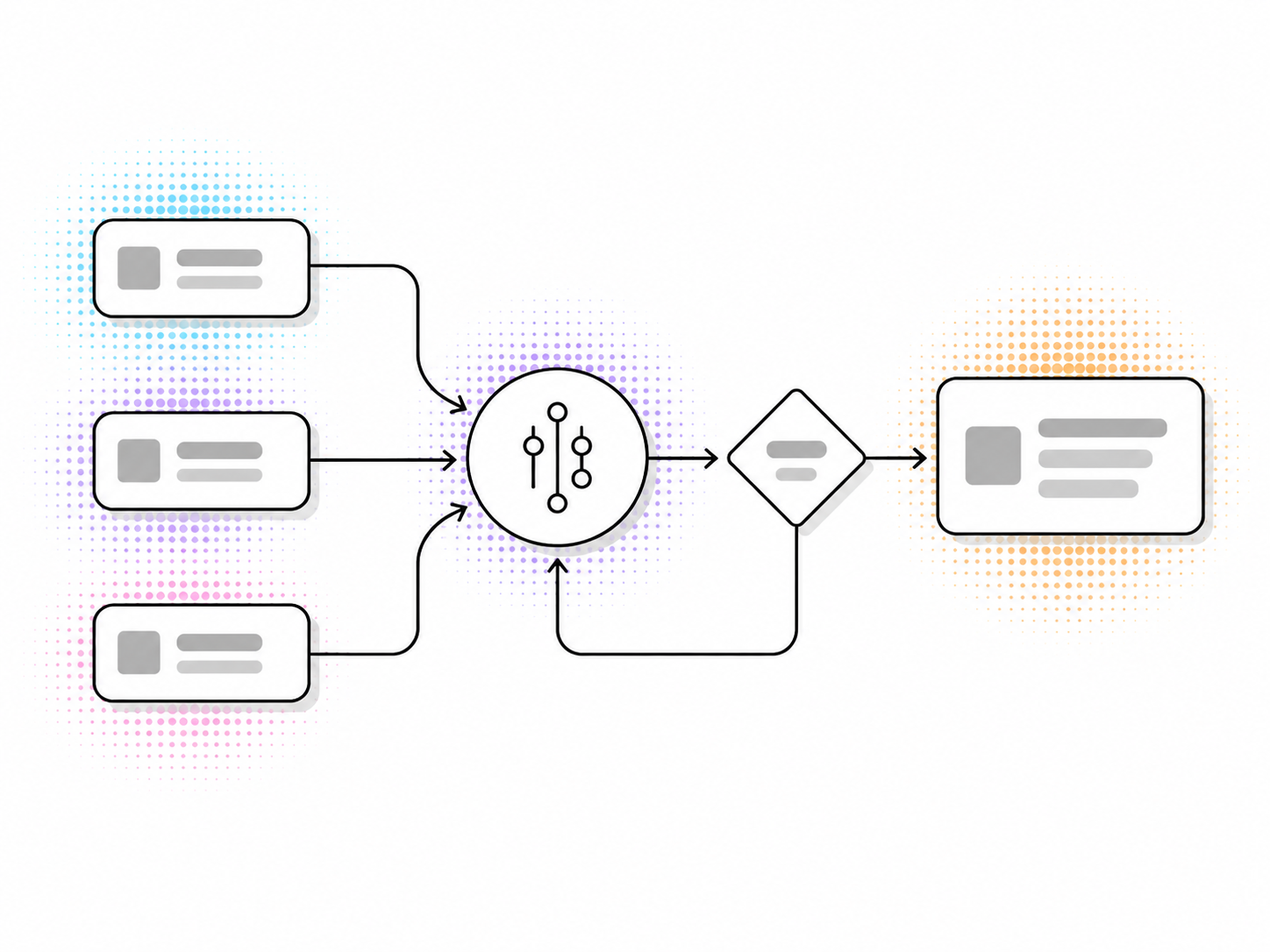
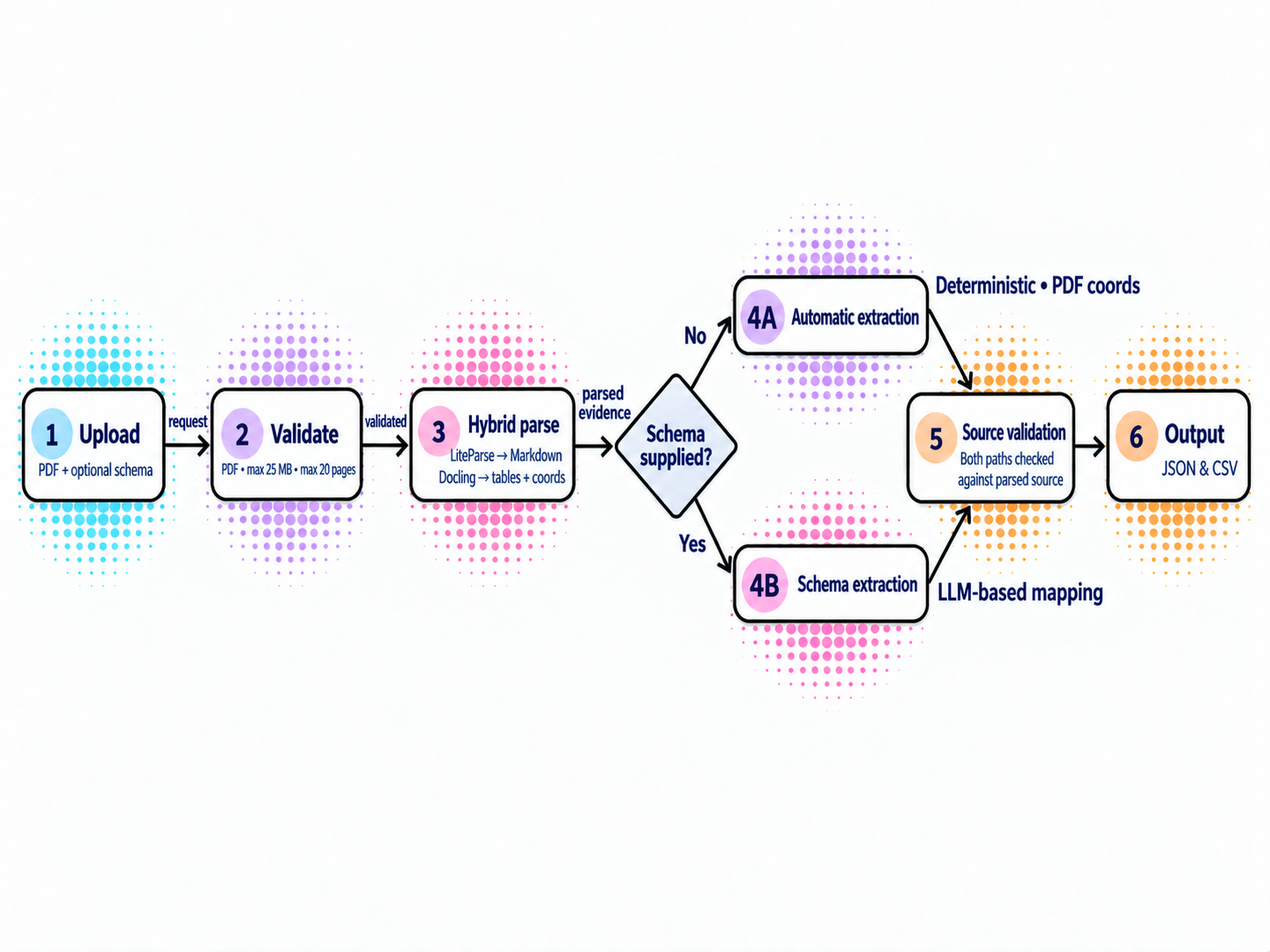
input fields added

Changed region(s): [[0.0, 0.1823, 0.9945, 0.7901]]

diff --git a/frontend/app/workspace.tsx b/frontend/app/workspace.tsx
@@ -10,12 +10,17 @@ import { Results } from "@/components/results";
 import { SchemaUpload } from "@/components/schema-upload";
 import { demoResponse } from "@/lib/demo";
 import { readSchemaFile } from "@/lib/schema";
-import type { ExtractionMode, ExtractionResponse, SchemaUploadState } from "@/lib/types";
+import type { ExtractionMode, ExtractionResponse, FieldDefinition, SchemaDefinition, SchemaUploadState } from "@/lib/types";
 
 const API_URL = process.env.NEXT_PUBLIC_API_URL || "http://localhost:8000";
 
 type ExamplePayload = { filename: string; pdf_url: string; schema: unknown };
 type SetupStep = "mode" | "schema";
+type SchemaMethod = "upload" | "builder";
+type BuilderState = { schemaName: string; description: string; outputMode: "document" | "records"; fields: FieldDefinition[]; recordFields: FieldDefinition[]; tableName: string; tableDescription: string };
+
+const emptyField = (): FieldDefinition => ({ id: crypto.randomUUID(), name: "", description: "" });
+const initialBuilder: BuilderState = { schemaName: "", description: "", outputMode: "document", fields: [emptyField()], recordFields: [emptyField()], tableName: "", tableDescription: "" };
 
 export function Workspace() {
   const [file, setFile] = useState<File | null>(null);
@@ -31,6 +36,10 @@ export function Workspace() {
   const [setupStep, setSetupStep] = useState<SetupStep>("mode");
   const [schemaUpload, setSchemaUpload] = useState<SchemaUploadState | null>(null);
   const [mobileView, setMobileView] = useState<"document" | "data">("document");
+  const [builder, setBuilder] = useState<BuilderState>(initialBuilder);
+  const [builderError, setBuilderError] = useState("");
+  const [builderValidating, setBuilderValidating] = useState(false);
+  const [schemaMethod, setSchemaMethod] = useState<SchemaMethod>("upload");
 
   useEffect(() => {
     if (new URLSearchParams(window.location.search).get("demo") === "1") {
@@ -91,6 +100,25 @@ export function Workspace() {
     }
   }
 
+  function updateBuilder(value: Partial<BuilderState>) { setBuilder((current) => ({ ...current, ...value })); setBuilderError(""); }
+
+  async function saveBuilderSchema() {
+    setBuilderError("");
+    setBuilderValidating(true);
+    try {
+      const toSchemaFields = (fields: FieldDefinition[]) => fields.map(({ name, description }) => ({ name: name.trim(), description: description.trim() }));
+      const schema: SchemaDefinition = { schema_version: 1, name: builder.schemaName.trim(), description: builder.description.trim(), fields: toSchemaFields(builder.fields) };
+      if (builder.outputMode === "records") schema.table = { name: builder.tableName.trim(), description: builder.tableDescription.trim(), fields: toSchemaFields(builder.recordFields) };
+      const validationResponse = await fetch(`${API_URL}/api/schema/validate`, { method: "POST", headers: { "Content-Type": "application/json" }, body: JSON.stringify(schema) });
+      const payload = await validationResponse.json().catch(() => ({}));
+      if (!validationResponse.ok) throw new Error(typeof payload.detail === "string" ? payload.detail : "The schema could not be validated.");
+      const builtSchema = { fileName: "Built in app", raw: JSON.stringify(schema), schema };
+      setSchemaUpload(builtSchema);
+      await extract("schema", builtSchema);
+    } catch (caught) { setBuilderError(caught instanceof Error ? caught.message : "The schema could not be validated."); }
+    finally { setBuilderValidating(false); }
+  }
+
   function selectMode(nextMode: ExtractionMode) {
     setMode(nextMode);
     setError("");
@@ -107,7 +135,7 @@ export function Workspace() {
     void extract();
   }
 
-  async function extract(modeOverride?: ExtractionMode) {
+  async function extract(modeOverride?: ExtractionMode, schemaOverride?: SchemaUploadState) {
     if (!file) {
       setError("Add a PDF before extracting.");
       return;
@@ -117,7 +145,8 @@ export function Workspace() {
       setError("Choose an extraction mode first.");
       return;
     }
-    if (selectedMode === "schema" && !schemaUpload) {
+    const activeSchema = schemaOverride || schemaUpload;
+    if (selectedMode === "schema" && !activeSchema) {
       setSetupStep("schema");
       return;
     }
@@ -127,7 +156,7 @@ export function Workspace() {
     try {
       const form = new FormData();
       form.append("pdf", file);
-      if (selectedMode === "schema" && schemaUpload) form.append("schema", schemaUpload.raw);
+      if (selectedMode === "schema" && activeSchema) form.append("schema", activeSchema.raw);
       const result = await fetch(`${API_URL}/api/extractions`, { method: "POST", body: form });
       const payload = await result.json();
       if (!result.ok) throw new Error(typeof payload.detail === "string" ? payload.detail : "Extraction failed.");
@@ -176,9 +205,10 @@ export function Workspace() {
         ? "Extract automatically"
         : mode === "schema" && schemaUpload
           ? "Extract with schema"
-          : mode === "schema"
-            ? "Choose JSON schema"
+            : mode === "schema"
+            ? "Choose schema"
             : "Choose extraction";
+  const builderOpen = !response && setupStep === "schema" && schemaMethod === "builder";
 
   return (
     <main className="app-shell" id="workspace">
@@ -194,7 +224,7 @@ export function Workspace() {
           <div className="workspace-header-actions">
             {file || demo ? <button className="quiet-button start-over-button" type="button" onClick={startOver}>Start over</button> : null}
             {response && !demo ? <button className="secondary-button" type="button" onClick={() => void extract()} disabled={loading}><ReloadIcon /> {loading ? "Extracting..." : "Run again"}</button> : null}
-            {response ? <ExportMenu response={response} /> : <button className="primary-button" type="button" disabled={loading || exampleLoading || demo} onClick={file ? continueSetup : openPdfPicker}>{loading ? "Extracting..." : actionLabel}</button>}
+            {response ? <ExportMenu response={response} /> : builderOpen ? null : <button className="primary-button" type="button" disabled={loading || exampleLoading || demo} onClick={file ? continueSetup : openPdfPicker}>{loading ? "Extracting..." : actionLabel}</button>}
           </div>
           </div>
         </header>
@@ -204,7 +234,7 @@ export function Workspace() {
             <DocumentPanel file={file} onFile={changePdf} onExample={loadExample} exampleLoading={exampleLoading} demo={demo} visible={mobileView === "document"} />
             {!file && !response ? <section className={`workspace-pane data-pane automatic-intro ${mobileView === "data" ? "mobile-visible" : ""}`} aria-labelledby="intro-heading"><header className="pane-header workspace-pane-header"><div><span className="pane-kicker">Set up extraction</span><h2 id="intro-heading">Upload a PDF to begin</h2></div></header><div className="intro-content"><div><strong>Automatic extraction</strong><p>Find fields, tables, and content that needs review.</p></div><div><strong>Schema extraction</strong><p>Return only the values and table rows you define.</p></div></div></section> : null}
             {file && !response && setupStep === "mode" ? <ExtractionModeChooser selected={mode} visible={mobileView === "data"} hasSchema={Boolean(schemaUpload)} onSelect={selectMode} onContinue={continueSetup} /> : null}
-            {file && !response && setupStep === "schema" ? <SchemaUpload schema={schemaUpload?.schema || null} fileName={schemaUpload?.fileName || ""} error={schemaError} validating={schemaValidating} visible={mobileView === "data"} onFile={handleSchemaFile} onBack={() => setSetupStep("mode")} /> : null}
+            {file && !response && setupStep === "schema" ? <SchemaUpload schema={schemaUpload?.schema || null} fileName={schemaUpload?.fileName || ""} error={schemaError} validating={schemaValidating} visible={mobileView === "data"} onFile={handleSchemaFile} onBack={() => setSetupStep("mode")} builder={builder} builderError={builderError} builderValidating={builderValidating} onBuilder={updateBuilder} onBuilderSave={() => void saveBuilderSchema()} method={schemaMethod} onMethod={setSchemaMethod} /> : null}
             {response ? <Results response={response} visible={mobileView === "data"} /> : null}
           </div>
         </div>

diff --git a/frontend/components/schema-builder.tsx b/frontend/components/schema-builder.tsx
@@ -7,13 +7,20 @@ type Props = {
   outputMode: "document" | "records";
   fields: FieldDefinition[];
   recordFields: FieldDefinition[];
+  tableName: string;
+  tableDescription: string;
   disabled: boolean;
   visible: boolean;
+  error: string;
+  validating: boolean;
   onSchemaName: (value: string) => void;
   onDescription: (value: string) => void;
   onOutputMode: (value: "document" | "records") => void;
   onFields: (value: FieldDefinition[]) => void;
   onRecordFields: (value: FieldDefinition[]) => void;
+  onTableName: (value: string) => void;
+  onTableDescription: (value: string) => void;
+  onSave: () => void;
 };
 
 function newField(): FieldDefinition {
@@ -24,7 +31,7 @@ function FieldEditor({ fields, disabled, onChange }: { fields: FieldDefinition[]
   const update = (id: string, value: Partial<FieldDefinition>) => onChange(fields.map((field) => field.id === id ? { ...field, ...value } : field));
   return (
     <div className="field-editor">
-      <div className="field-editor-labels"><span>Field name</span><span>Description</span><span /></div>
+      <div className="field-editor-labels"><span>What should we call it?</span><span>How will it appear?</span><span /></div>
       {fields.map((field) => (
         <div className="schema-field-row" key={field.id}>
           <input aria-label="Field name" value={field.name} disabled={disabled} placeholder="Field name" onChange={(event) => update(field.id, { name: event.target.value })} />
@@ -39,20 +46,20 @@ function FieldEditor({ fields, disabled, onChange }: { fields: FieldDefinition[]
 
 export function SchemaBuilder(props: Props) {
   return (
-    <section className={`workspace-pane data-pane ${props.visible ? "mobile-visible" : ""}`} aria-labelledby="schema-heading">
-      <header className="pane-header"><div><span className="pane-kicker">Schema</span><h2 id="schema-heading">Describe the values you need</h2><p>Give each field a name and a short description.</p></div></header>
+    <section className={`workspace-pane data-pane schema-builder-pane ${props.visible ? "mobile-visible" : ""}`} aria-labelledby="schema-heading">
       <div className="schema-scroll">
         <div className="schema-meta">
-          <label>Schema name<input value={props.schemaName} placeholder="e.g. invoice" disabled={props.disabled} onChange={(event) => props.onSchemaName(event.target.value)} /></label>
-          <label>Document description<textarea rows={3} value={props.description} placeholder="e.g. Extract the invoice number and issue date." disabled={props.disabled} onChange={(event) => props.onDescription(event.target.value)} /></label>
+          <label>Give this extraction a name<input value={props.schemaName} placeholder="e.g. Invoice details" disabled={props.disabled} onChange={(event) => props.onSchemaName(event.target.value)} /></label>
+          <label>What should we look for in this PDF?<textarea rows={3} value={props.description} placeholder="e.g. Find the invoice number, issue date, and totals." disabled={props.disabled} onChange={(event) => props.onDescription(event.target.value)} /></label>
         </div>
         <fieldset className="mode-switch" disabled={props.disabled}>
-          <legend>Output structure</legend>
-          <button type="button" className={props.outputMode === "document" ? "active" : ""} onClick={() => props.onOutputMode("document")}><strong>Document</strong><span>One output row</span></button>
-          <button type="button" className={props.outputMode === "records" ? "active" : ""} onClick={() => props.onOutputMode("records")}><strong>Records</strong><span>Repeat table rows or items</span></button>
+          <legend>What kind of information is in this PDF?</legend>
+          <button type="button" className={props.outputMode === "document" ? "active" : ""} onClick={() => props.onOutputMode("document")}><strong>Details from each PDF</strong><span>For information that appears once, like an invoice number or date.</span></button>
+          <button type="button" className={props.outputMode === "records" ? "active" : ""} onClick={() => props.onOutputMode("records")}><strong>Rows from a repeated list</strong><span>For line items, products, people, or other repeated entries.</span></button>
         </fieldset>
-        <section className="schema-section"><div className="section-heading"><h3>Document fields</h3><span>{props.fields.length}</span></div><FieldEditor fields={props.fields} disabled={props.disabled} onChange={props.onFields} /></section>
-        {props.outputMode === "records" ? <section className="schema-section"><div className="section-heading"><div><h3>Record fields</h3><p>One record for every matching repeated item.</p></div><span>{props.recordFields.length}</span></div><FieldEditor fields={props.recordFields} disabled={props.disabled} onChange={props.onRecordFields} /></section> : null}
+        <section className="schema-section"><div className="section-heading"><div><h3>Details to extract from the PDF</h3><p>Add each value you want in the result.</p></div><span>{props.fields.length}</span></div><FieldEditor fields={props.fields} disabled={props.disabled} onChange={props.onFields} /></section>
+        {props.outputMode === "records" ? <section className="schema-section"><div className="section-heading"><div><h3>Details in each repeated row</h3><p>These become one result row for every matching item.</p></div><span>{props.recordFields.length}</span></div><div className="schema-meta"><label>What should we call this list?<input value={props.tableName} placeholder="e.g. Products or line items" disabled={props.disabled} onChange={(event) => props.onTableName(event.target.value)} /></label><label>What does each row represent?<textarea rows={2} value={props.tableDescription} placeholder="e.g. Each product or service on the invoice." disabled={props.disabled} onChange={(event) => props.onTableDescription(event.target.value)} /></label></div><FieldEditor fields={props.recordFields} disabled={props.disabled} onChange={props.onRecordFields} /></section> : null}
+        <div className="schema-builder-actions"><button className="primary-button" type="button" disabled={props.disabled} onClick={props.onSave}>{props.validating ? "Checking and extracting..." : "Extract from this PDF"}</button>{props.error ? <p className="schema-inline-error" role="alert">{props.error}</p> : null}</div>
       </div>
     </section>
   );

diff --git a/frontend/components/schema-upload.tsx b/frontend/components/schema-upload.tsx
@@ -5,6 +5,8 @@ import { useRef, useState } from "react";
 import { downloadFile } from "@/lib/download";
 import { exampleSchema, schemaSummary } from "@/lib/schema";
 import type { SchemaDefinition } from "@/lib/types";
+import { SchemaBuilder } from "@/components/schema-builder";
+import type { FieldDefinition } from "@/lib/types";
 
 type Props = {
   schema: SchemaDefinition | null;
@@ -14,9 +16,16 @@ type Props = {
   visible: boolean;
   onFile: (file: File) => void;
   onBack: () => void;
+  builder: { schemaName: string; description: string; outputMode: "document" | "records"; fields: FieldDefinition[]; recordFields: FieldDefinition[]; tableName: string; tableDescription: string };
+  builderError: string;
+  builderValidating: boolean;
+  onBuilder: (value: Partial<Props["builder"]>) => void;
+  onBuilderSave: () => void;
+  method: "upload" | "builder";
+  onMethod: (value: "upload" | "builder") => void;
 };
 
-export function SchemaUpload({ schema, fileName, error, validating, visible, onFile, onBack }: Props) {
+export function SchemaUpload({ schema, fileName, error, validating, visible, onFile, onBack, builder, builderError, builderValidating, onBuilder, onBuilderSave, method, onMethod }: Props) {
   const inputRef = useRef<HTMLInputElement>(null);
   const [dragging, setDragging] = useState(false);
 
@@ -34,9 +43,10 @@ export function SchemaUpload({ schema, fileName, error, validating, visible, onF
     <section className={`workspace-pane data-pane schema-upload-pane ${visible ? "mobile-visible" : ""}`} aria-labelledby="schema-upload-heading">
       <header className="pane-header schema-upload-header workspace-pane-header">
         <button className="quiet-button back-button" type="button" onClick={onBack}><ArrowLeftIcon aria-hidden="true" /> Back</button>
-        <div><span className="pane-kicker">Schema mode</span><h2 id="schema-upload-heading">Upload your JSON schema</h2></div>
+        <div><span className="pane-kicker">Schema mode</span><h2 id="schema-upload-heading">Tell us what to find</h2><p>Use an existing schema or describe the values in plain language.</p></div>
       </header>
-      <div className="schema-upload-content">
+      <div className="schema-method-tabs" role="tablist" aria-label="Schema setup method"><button type="button" role="tab" aria-selected={method === "upload"} onClick={() => onMethod("upload")}>Use existing JSON</button><button type="button" role="tab" aria-selected={method === "builder"} onClick={() => onMethod("builder")}>Describe it here</button></div>
+      {method === "builder" ? <SchemaBuilder visible={visible} disabled={builderValidating} error={builderError} validating={builderValidating} {...builder} onSchemaName={(value) => onBuilder({ schemaName: value })} onDescription={(value) => onBuilder({ description: value })} onOutputMode={(value) => onBuilder({ outputMode: value })} onFields={(value) => onBuilder({ fields: value })} onRecordFields={(value) => onBuilder({ recordFields: value })} onTableName={(value) => onBuilder({ tableName: value })} onTableDescription={(value) => onBuilder({ tableDescription: value })} onSave={onBuilderSave} /> : <div className="schema-upload-content">
         <input ref={inputRef} type="file" accept="application/json,.json" hidden onChange={(event) => { choose(event.target.files?.[0]); event.currentTarget.value = ""; }} />
         {!schema ? (
           <>
@@ -58,7 +68,7 @@ export function SchemaUpload({ schema, fileName, error, validating, visible, onF
         )}
         {validating ? <p className="schema-status" role="status">Checking schema...</p> : null}
         {error ? <p className="schema-inline-error" role="alert">{error}</p> : null}
-      </div>
+      </div>}
     </section>
   );
 }

diff --git a/frontend/app/globals.css b/frontend/app/globals.css
@@ -160,13 +160,21 @@ input:disabled, textarea:disabled, select:disabled { background: var(--canvas); 
 .replace-schema-button { min-height: 40px; }
 .schema-status { margin: 12px 0 0; color: var(--tertiary); font: 14px/20px var(--body); }
 .schema-inline-error { margin: 12px 0 0; padding: 10px 12px; color: var(--danger); background: #fff7f6; border: 1px solid #f0c8c3; border-radius: 4px; font: 14px/20px var(--body); }
+.schema-method-tabs { min-height: 48px; padding: 0 30px; display: flex; align-items: end; gap: 18px; background: var(--surface); border-bottom: 1px solid var(--line); }
+.schema-method-tabs button { min-height: 40px; padding: 8px 2px; color: var(--muted); background: transparent; border: 0; border-bottom: 2px solid transparent; font: 500 12px/16px var(--mono); text-transform: uppercase; letter-spacing: .04em; }
+.schema-method-tabs button[aria-selected="true"] { color: var(--ink); border-bottom-color: var(--ink); }
+.schema-builder-pane { flex: 1; }
+.schema-meta { display: grid; gap: 16px; }
+.schema-builder-actions { margin-top: 28px; padding-top: 20px; border-top: 1px solid var(--line); }
+.schema-builder-actions .primary-button { width: 100%; }
+.schema-builder-actions .schema-inline-error { margin-bottom: 0; }
 
 .schema-section { margin-top: 28px; }
 .schema-section + .schema-section { padding-top: 28px; border-top: 1px solid var(--line); }
 .section-heading { margin-bottom: 12px; display: flex; align-items: flex-start; justify-content: space-between; gap: 12px; }
 .section-heading h2, .section-heading h3 { margin: 0; color: var(--ink); font: 500 19px/20px var(--display); }
 .section-heading > span { color: var(--muted); font: 14px/20px var(--body); }
-.field-editor-labels, .schema-field-row { display: grid; grid-template-columns: minmax(130px, .72fr) minmax(190px, 1.28fr) 28px; gap: 8px; }
+.field-editor-labels, .schema-field-row { display: grid; grid-template-columns: minmax(110px, .62fr) minmax(160px, 1.1fr) minmax(92px, .38fr) 28px; gap: 8px; }
 .field-editor-labels { margin-bottom: 5px; color: var(--muted); font: 12px/16px var(--body); }
 .schema-field-row { margin-bottom: 8px; }
 .schema-field-row input, .schema-field-row select { height: 40px; margin: 0; font-size: 14px; }
@@ -277,6 +285,7 @@ input:disabled, textarea:disabled, select:disabled { background: var(--canvas); 
   .pane-header { min-height: 84px; padding: 15px 14px; }
   .pane-header h2 { font-size: 25px; line-height: 30px; }
   .mode-content, .schema-upload-content { padding: 18px 14px 28px; }
+  .schema-method-tabs { padding-inline: 14px; }
   .schema-scroll { padding: 18px 14px 28px; }
   .schema-example { display: grid; justify-content: stretch; }
   .schema-summary { grid-template-columns: 1fr 1fr; }
@@ -288,6 +297,7 @@ input:disabled, textarea:disabled, select:disabled { background: var(--canvas); 
   .field-editor-labels { display: none; }
   .schema-field-row { padding: 8px; grid-template-columns: minmax(0, 1fr) 28px; background: var(--canvas); border: 1px solid var(--line); border-radius: 4px; }
   .schema-field-row input:nth-child(2) { grid-column: 1 / -1; }
+  .schema-field-row select { grid-column: 1 / -1; }
   .schema-field-row .icon-button { grid-column: 2; grid-row: 1; }
   .table-output { padding: 5px 14px 24px; }
   .result-fields { display: block; }

diff --git a/frontend/components/product-landing.tsx b/frontend/components/product-landing.tsx
@@ -9,7 +9,7 @@ const WORKSPACE_PATH = "/workspace";
 const steps = [
   { number: "01", title: "Upload a PDF", description: "Start with a report, invoice, contract, transcript, or any document." },
   { number: "02", title: "Choose the shape", description: "Use automatic extraction or provide a schema for a focused result." },
-  { number: "03", title: "Review and export", description: "Inspect values, confidence, citations, and download structured data." },
+  { number: "03", title: "Review and export", description: "Inspect values and download structured data." },
 ];
 
 function Logo() {
@@ -25,7 +25,7 @@ function Header() {
 }
 
 function Hero() {
-  return <section className="focus-hero" id="top"><div className="landing-container focus-hero-grid"><div className="focus-hero-copy"><p className="landing-kicker">PDF to structured data</p><h1>Extract structured data from every PDF.</h1><p className="landing-hero-description">Upload a document, define the fields you need, and review precise results with source-level confidence.</p><div className="landing-button-row"><ButtonLink href={WORKSPACE_PATH}>Open workspace</ButtonLink><ButtonLink href="#how-it-works" inverted>See the workflow</ButtonLink></div><p className="focus-proof">Local-first workflow · confidence + citations</p></div><div className="focus-hero-art"><span className="focus-art-label">source / schema / output</span><img src="/document-flow.png" alt="PDF extraction flow from source document to structured output" /></div></div></section>;
+  return <section className="focus-hero" id="top"><div className="landing-container focus-hero-grid"><div className="focus-hero-copy"><p className="landing-kicker">PDF to structured data</p><h1>Extract structured data from every PDF.</h1><p className="landing-hero-description">Upload a document, define the fields you need, and review precise results.</p><div className="landing-button-row"><ButtonLink href={WORKSPACE_PATH}>Open workspace</ButtonLink><ButtonLink href="#how-it-works" inverted>See the workflow</ButtonLink></div><p className="focus-proof">Local-first workflow · confidence + citations</p></div><div className="focus-hero-art"><span className="focus-art-label">source / schema / output</span><img src="/document-flow.png" alt="PDF extraction flow from source document to structured output" /></div></div></section>;
 }
 
 function HowItWorks() {

diff --git a/frontend/components/extraction-mode.tsx b/frontend/components/extraction-mode.tsx
@@ -21,7 +21,7 @@ export function ExtractionModeChooser({ selected, visible, hasSchema, onSelect, 
             <span className="mode-option-icon"><LightningBoltIcon aria-hidden="true" /></span><span><strong>Automatic extraction</strong><small>Find fields, tables, and content that needs review.</small></span>
           </button>
           <button type="button" className={`mode-option ${selected === "schema" ? "selected" : ""}`} role="radio" aria-checked={selected === "schema"} onClick={() => onSelect("schema")}>
-            <span className="mode-option-icon"><FileTextIcon aria-hidden="true" /></span><span><strong>Use a JSON schema</strong><small>Return only the fields and table rows defined in your file.</small></span>{hasSchema ? <em>Ready</em> : null}
+            <span className="mode-option-icon"><FileTextIcon aria-hidden="true" /></span><span><strong>Define a schema</strong><small>Describe the fields you need, or use an existing JSON schema.</small></span>{hasSchema ? <em>Ready</em> : null}
           </button>
         </div>
         <button className="primary-button mode-continue" type="button" disabled={!selected} onClick={onContinue}>{selected === "schema" && !hasSchema ? "Choose schema" : "Continue"}<ArrowRightIcon aria-hidden="true" /></button>

diff --git a/frontend/app/layout.tsx b/frontend/app/layout.tsx
@@ -7,7 +7,7 @@ const mono = IBM_Plex_Mono({ subsets: ["latin"], weight: ["400", "500"], variabl
 
 export const metadata: Metadata = {
   title: "Document to Structured Data | PDF workspace",
-  description: "Extract structured data from documents with confidence scores and citations.",
+  description: "Extract structured data from documents.",
 };
 
 export default function RootLayout({ children }: Readonly<{ children: React.ReactNode }>) {

diff --git a/README.md b/README.md
@@ -42,9 +42,11 @@ npm run dev
 
 ## Schema extraction
 
-After uploading a PDF, choose **Use a JSON schema** and upload a `.json` file.
-The file is read in the browser, validated locally and by the backend, and is
-not stored on the server.
+After uploading a PDF, choose **Define a schema**. You can either upload a
+`.json` file or use **Build in app** to enter the schema name, document
+description, requested fields, and (optionally) repeated record fields. Both
+paths are validated in the browser/backend and sent through the same schema
+extraction flow; the schema is not stored on the server.
 
 The simple schema format has document fields and one optional repeated table.
 The repeated collection may be named `table` or `records`; rows can span
